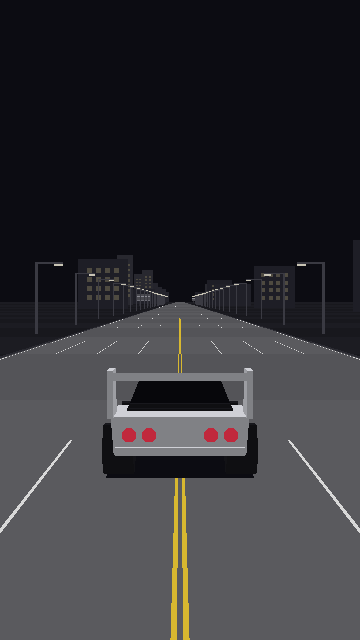
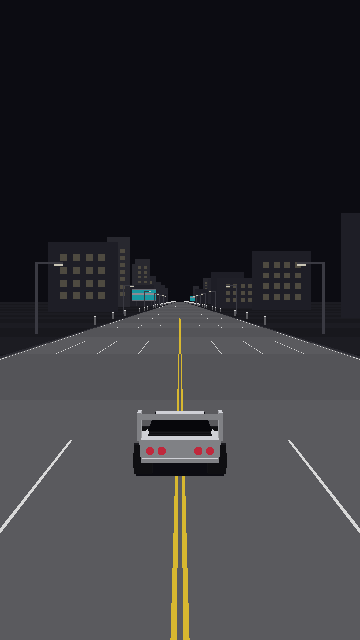
Render: smaller car, sparser lamps, shoulder posts back, closer buildings, bigger saturated billboards
Author feedback 2026-11-19: player.width 0.38 -> 0.23 (body 0.63 of a lane), smoke unit scaled;
lamps every 16; shoulder posts every 4 at 1.15, skipped on lamp segments; buildings 2.7-4.2,
every 5-10; billboards 1500x700 with saturated placeholder colours. Baselines updated.

Changed region(s): [[0.275, 0.5625, 0.7333, 0.75], [0.1528, 0.3438, 0.4583, 0.5], [0.5194, 0.4062, 0.8556, 0.5]]

diff --git a/src/render/worldSprites.ts b/src/render/worldSprites.ts
@@ -15,6 +15,15 @@ import type { SpriteBatch } from './spriteBatch';
 
 /** R32 placement (RoadsideConfig) plus drawing sizes. World units unless noted. */
 export interface RoadsideDrawConfig extends RoadsideConfig {
+  // Small shoulder posts, drawn straight from the projected lines (not in the placement); skipped
+  // on lamp segments so a post never stands next to a lamp pole.
+  posts: {
+    every: number; // a post on each shoulder every N segments
+    offset: number; // road half-widths from the centre, nearer the road than the lamps
+    width: number;
+    height: number;
+    capHeight: number; // fraction of the post height drawn in the cap colour
+  };
   lamps: RoadsideConfig['lamps'] & {
     drawDistance: number; // lines from the camera
     height: number;
@@ -74,7 +83,8 @@ const BB_LEG = 12;
 const BB_FRAME = 15;
 const BB_STRIPE = 18;
 const WINDOW = 21;
-const BB_PANEL = 24; // palette.billboard[], then palette.building[]
+const POST_CAP = 24;
+const BB_PANEL = 27; // palette.billboard[], then palette.building[]
 
 /** Placeholder sprites of layers 2-4: roadside objects, drift smoke, stress filler. */
 export class WorldSprites {
@@ -98,6 +108,7 @@ export class WorldSprites {
     this.buildingAt = BB_PANEL + this.panels * 3;
     this.rgb = new Float32Array(this.buildingAt + this.buildings * 3);
     writeHex(this.rgb, POST, palette.post);
+    writeHex(this.rgb, POST_CAP, palette.postCap);
     writeHex(this.rgb, SMOKE, palette.smoke);
     writeHex(this.rgb, LAMP_POLE, palette.lampPole);
     writeHex(this.rgb, LAMP_HEAD, palette.lampHead);
@@ -143,17 +154,24 @@ export class WorldSprites {
   }
 
   /**
-   * R32 lamps, billboards and buildings standing on the projected lines, each kind within its
+   * R32 lamps, billboards, buildings and shoulder posts standing on the projected lines, each kind within its
    * own draw distance. `first` is the per-segment index of `rs` (indexBySegment).
    * R30: an object on a line behind a crest keeps only its part above the crest.
    */
   drawRoadside(batch: SpriteBatch, proj: Projection, rs: Roadside, first: Int32Array): void {
     const step = 2 / (proj.count - 1);
+    const posts = this.cfg.roadside.posts;
+    const postEvery = Math.max(1, Math.floor(posts.every));
+    const lampEvery = Math.max(1, Math.floor(this.cfg.roadside.lamps.every));
     let crestY = Infinity;
     for (let n = 0; n < proj.count - 1; n++) {
       const seg = proj.segment[n]!;
       this.clipY = proj.clipped[n] === 1 ? crestY : Infinity;
       if (proj.y[n]! < crestY) crestY = proj.y[n]!;
+      if (seg % postEvery === 0 && seg % lampEvery !== 0) {
+        this.post(batch, proj, seg, -posts.offset);
+        this.post(batch, proj, seg, posts.offset);
+      }
       if (seg + 1 >= first.length) continue;
       for (let k = first[seg]!; k < first[seg + 1]!; k++) {
         const kind = rs.kind[k]!;
@@ -186,6 +204,16 @@ export class WorldSprites {
         batch.push(p.x, p.y, p.w, p.h, p.depth, this.rgb, POST);
       }
     }
+  }
+
+  // Short post with a light cap.
+  private post(batch: SpriteBatch, proj: Projection, seg: number, x: number): void {
+    const c = this.cfg.roadside.posts;
+    const p = this.placement;
+    if (!placeOnRoad(p, proj, seg, x, c.width, c.height)) return;
+    const capH = p.h * c.capHeight;
+    this.rect(batch, p.x, p.y, p.w, p.h - capH, p.depth, POST);
+    this.rect(batch, p.x, p.y - (p.h - capH), p.w, capH, p.depth, POST_CAP);
   }
 
   // Tall pole, an arm at the top reaching over the road, a lamp head under the arm tip.

diff --git a/src/data/render.ts b/src/data/render.ts
@@ -25,6 +25,7 @@ export interface Palette {
   carGlass: string;
   carLamp: string;
   post: string;
+  postCap: string;
   lampPole: string;
   lampHead: string;
   billboardLeg: string;

diff --git a/docs/balance.md b/docs/balance.md
@@ -145,3 +145,11 @@
 | 2026-11-19 | состояние гейта на `feat/stage3-handling` (трасса из фигур, линия эксперта) | — | NO-GO: `expert-drift-holds-speed` 0.91 при ≥ 0.95 (известный конфликт с R22b ≥ 0.85); `offroad-recovery` 1.85 с при ≤ 1.5; остальное PASS (novice 129.17 с, average 88.00 с, expert 83.46 с, `expert-gap` 5.2%) | коридор не менялся | `npm run bot && npm run gate` |
 | 2026-11-19 | `cars/base.json`: `driftArmTime` | — (вход строго в тик фронта) | 0.3 с [старт] | R20 пересмотрен (находка ревью): фронт drift-ввода взводит вход на `driftArmTime`, руль успевает дойти до `driftEnterSteer` (жест H3 D); добавлен в dev-панель | `tests/sim/drift.test.ts` R20, `tests/input/retouch_e2e.test.ts` |
 | 2026-11-19 | `sprites.json`: `roadside.billboards.depthStep`, `roadside.buildings.depthStep` | литералы в коде 0.05, 0.1 | 0.05, 0.1 (без изменений) | R32: сдвиг глубины на шаг сегмента вынесен из кода в данные (замечание ревью) | скриншоты 8 сценариев 0% |
+| 2026-11-19 | `sprites.json`: `player.width` | 0.38 | 0.23 | Отзыв автора 2026-11-19: машина огромная; вся модель масштабируется (камера машины отодвигается), низ на `baseY`; добавлен в dev-панель | скриншот `straight`: у ряда машины полоса 135.5 px, кузов 86 px (0.63), с колёсами 94 px (0.69) |
+| 2026-11-19 | `sprites.json`: `player.height` | 0.08 | 0.048 | Единица y дыма ×0.23/0.38 вслед за шириной: дым пропорционален машине (размер клубов уже от `player.width`) | скриншот `drift-right`: дым у задних колёс |
+| 2026-11-19 | `sprites.json`: `roadside.lamps.every` | 4 | 16 | Отзыв автора: фонари слишком часто, ×4 реже | скриншоты `straight`, `roadside` |
+| 2026-11-19 | `sprites.json`: `roadside.posts` (возвращены) | — (убраны в R32) | every 4, offset 1.15, width 30, height 120, capHeight 0.15; на сегменте фонаря столбиков нет; `palette.postCap` #d8d8d8 [старт] | Отзыв автора: вернуть мелкие частые столбики ближе к краю, чем фонари (1.4), без наложения на фонари; в dev-панели every, offset, height | скриншот `roadside`; smoke |
+| 2026-11-19 | `sprites.json`: `roadside.buildings` everyMin, everyMax, offsetMin, offsetMax | 6, 14, 3, 6 | 5, 10, 2.7, 4.2 | Отзыв автора: строения ближе к дороге и чаще — быстрее проносятся; край самой широкой формы (2400) при 2.7 остаётся за фонарями (1.5 > 1.4); нижняя граница dev-панели offsetMin/offsetMax 3 → 2.3 | `tests/render/roadside.test.ts` (порядок отступов); скриншоты `roadside`, `hill-dip`; до 397 инстансов в кадре при capacity 1024 |
+| 2026-11-19 | `sprites.json`: `roadside.billboards` width, height | 900, 420 | 1500, 700 | Отзыв автора: щит мал, ×1.67; offset 2.2 без изменений | скриншот `roadside` |
+| 2026-11-19 | `palette.json`: `billboard[4]` | #3c3848, #48383c, #34424a, #4a4a50 | #d0203c, #e87010, #8a2ad8, #1898a0 [старт] | Отзыв автора: щиты серые — насыщенные заглушки; отличны от кислотных цветов соперников (#b4ff39, #ff3df0, #39e6ff); в арт-библию не внесены | скриншот `roadside` |
+| 2026-11-19 | `tunables.json`: `sprites.roadside.lamps.every` max | 20 | 40 | Новое значение 16 близко к старому пределу | — |
